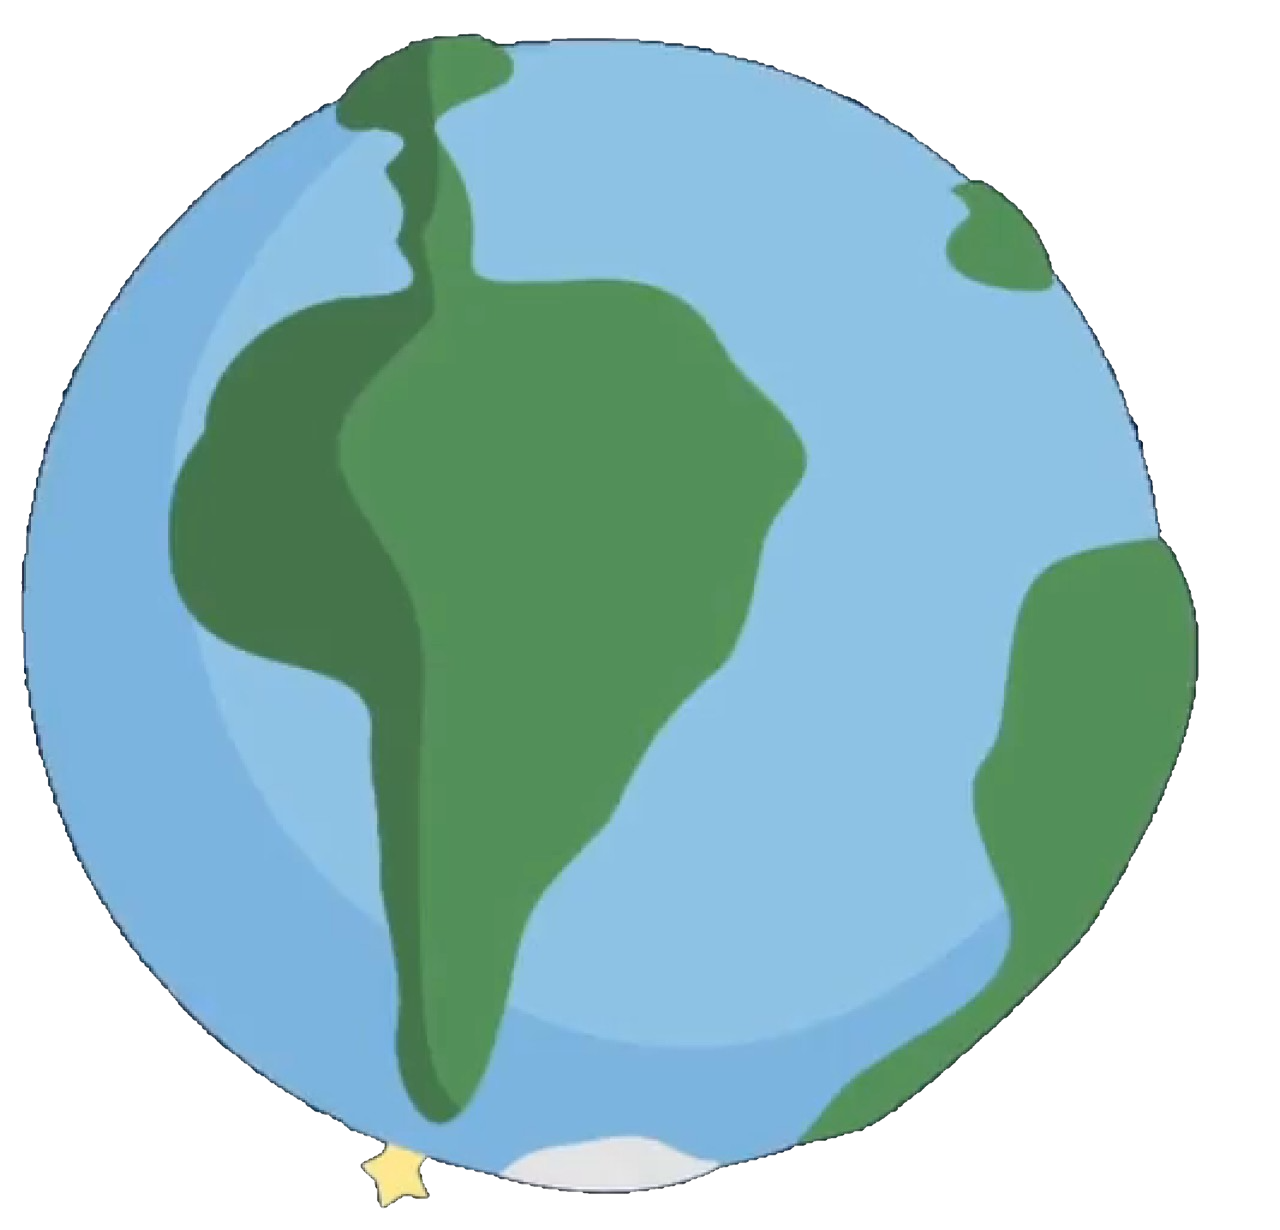
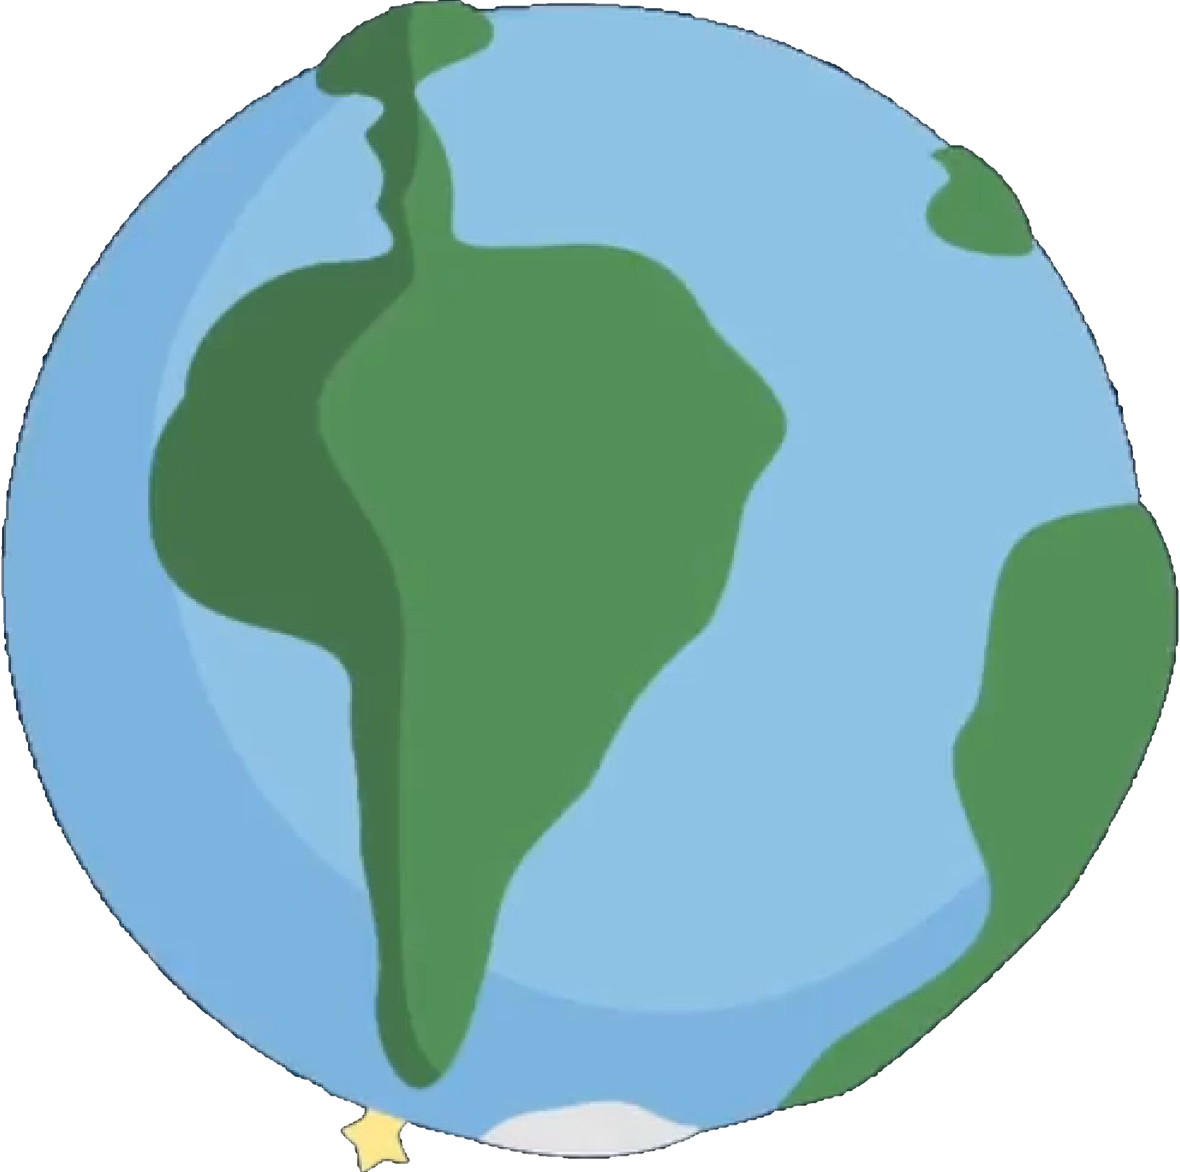
make moon rotate around earth

diff --git a/src/Components/Background.js b/src/Components/Background.js
@@ -23,6 +23,14 @@ const Earth = styled.div`
   left: 10%;
   background-repeat: no-repeat;
 `;
+const MoonContainer = styled(motion.div)`
+  width: ${({ smaller_dimension }) => (earthSize / 100) * smaller_dimension}px;
+  height: ${({ smaller_dimension }) => (earthSize / 100) * smaller_dimension}px;
+  position: absolute;
+  top: 90%;
+  transform: translate(0%, -100%);
+  left: 10%;
+`;
 const Astronaut = styled.div`
   background-image: url(${process.env.PUBLIC_URL + "/Images/Background/Astronaut.png"});
   position: relative;
@@ -34,16 +42,16 @@ const Astronaut = styled.div`
   width: 40%;
   height: 40%;
 `;
-const Moon = styled.div`
+
+const Moon = styled(motion.div)`
   background-image: url(${process.env.PUBLIC_URL + "/Images/Background/Moon.png"});
   position: relative;
   background-size: contain;
   background-repeat: no-repeat;
   transform: translate(-50%, -50%);
-  top: -40%;
-  left: 5%;
-  width: 65%;
-  height: 65%;
+  width: 30%;
+  height: 30%;
+  z-index: -100;
 `;
 
 const BlueBackground = styled.div`
@@ -63,10 +71,18 @@ function Background(props) {
     <BlueBackground>
       <AnimatedContainer variants={props.animate ? variants : {}}>
         {props.showPlanets && (
-          <Earth smaller_dimension={uiContext.dimensions.smaller}>
-            <Astronaut />
-            <Moon />
-          </Earth>
+          <span>
+            <MoonContainer
+              initial={{ translateY: "-100%" }}
+              animate={{ rotate: ["0deg", "360deg"], transition: { duration: 15, repeat: "Infinity", ease: "linear" } }}
+              smaller_dimension={uiContext.dimensions.smaller}
+            >
+              <Moon />
+            </MoonContainer>
+            <Earth smaller_dimension={uiContext.dimensions.smaller}>
+              <Astronaut />
+            </Earth>
+          </span>
         )}
       </AnimatedContainer>
     </BlueBackground>

diff --git a/src/Components/Pages/AboutMe/AboutMe.js b/src/Components/Pages/AboutMe/AboutMe.js
@@ -46,14 +46,14 @@ const LeftContainer = styled.div`
   justify-content: center;
   align-items: center;
   align-content: center;
-  flex: 0.4;
+  flex: 0.3;
   padding-left: 3%;
 `;
 const TitleContainer = styled.div`
   height: 8vmin;
 `;
 const RightContainer = styled.div`
-  flex: 1;
+  flex: 0.7;
   width: 100%;
   height: 100%;
   display: flex;
@@ -75,7 +75,7 @@ const Rocket = styled(motion.img)`
   position: absolute;
   left: 0;
   top: 50%;
-  width: 8%;
+  width: 12%;
   height: auto;
   cursor: pointer;
   transform: translate(-50%, -50%);
@@ -297,7 +297,7 @@ function AboutMe(props) {
           </CardsContainer>
         </TopRightHalf>
         <BottomRightContainer>
-          <div style={{ width: "100%", flex: 0.6 }}>
+          <div style={{ width: "90%", flex: 0.6 }}>
             <div style={{ position: "relative", width: "100%" }}>
               <Rocket
                 initial={{ translateX: "-50%", translateY: "-50%" }}

diff --git a/src/Components/Pages/Landing.js b/src/Components/Pages/Landing.js
@@ -32,7 +32,7 @@ const TextContainer = styled.div`
     width: 100%;
     height: 70%;
   }
-  @media (max-height: 800px) {
+  @media (max-height: 600px) {
     width: 100%;
     height: 70%;
   }
